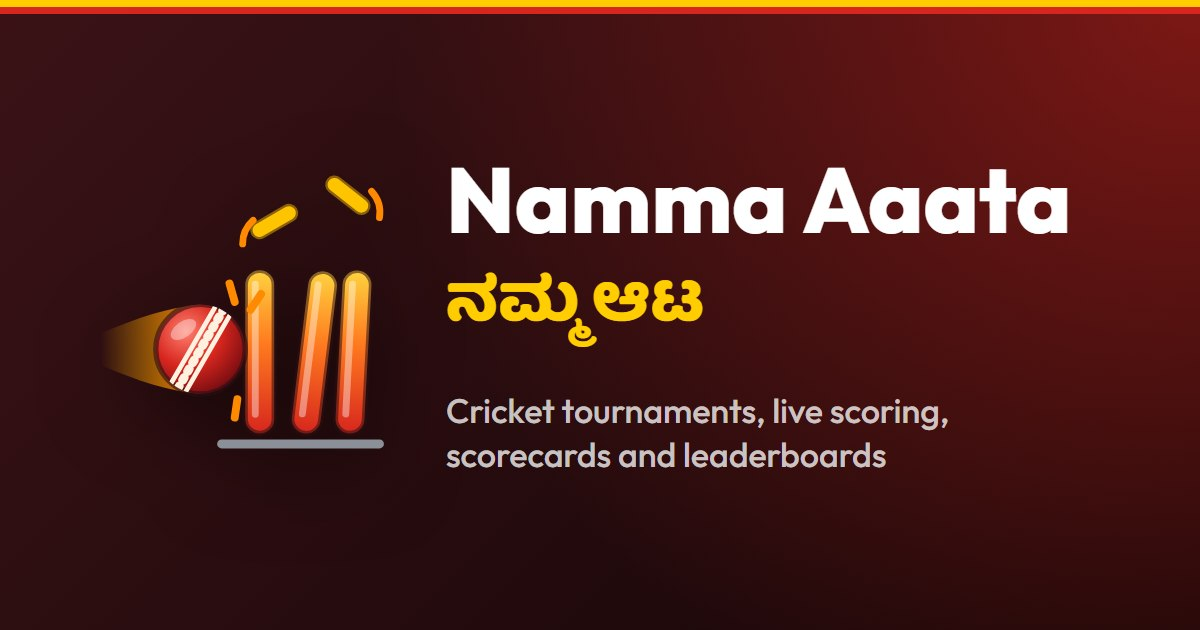
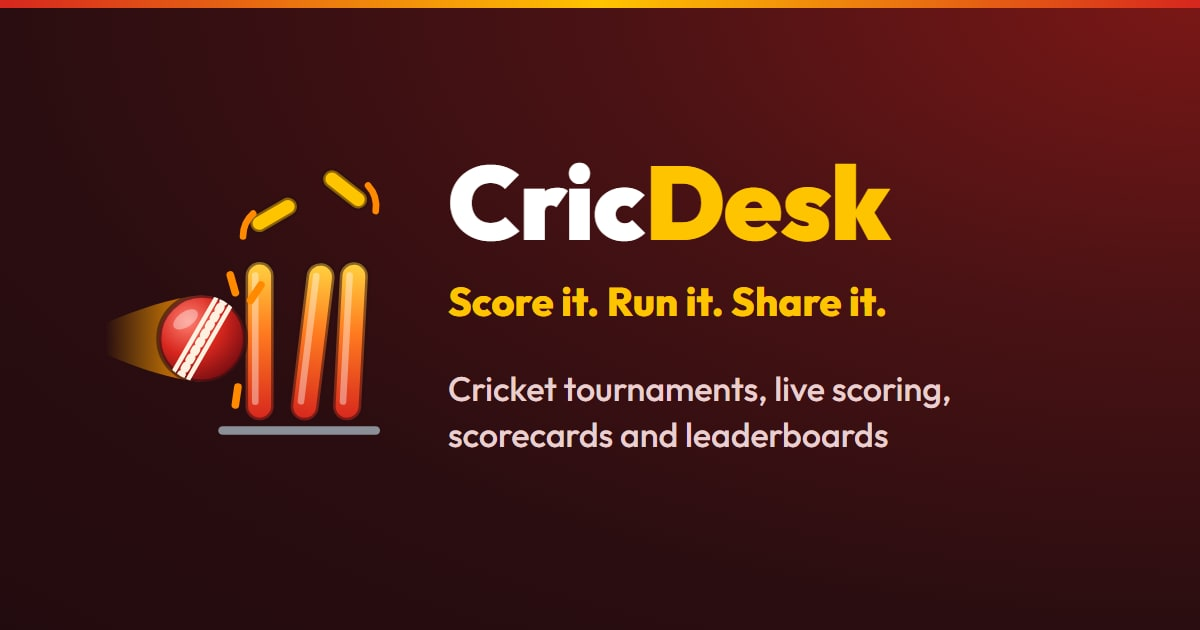
Replace the old-name link preview image with a CricDesk one

diff --git a/index.html b/index.html
@@ -13,7 +13,7 @@
     <meta property="og:site_name" content="CricDesk" />
     <meta property="og:title" content="CricDesk" />
     <meta property="og:description" content="Run your cricket tournaments: squads, balanced teams, ball-by-ball live scoring, scorecards and leaderboards." />
-    <meta property="og:image" content="/og-image.jpg" />
+    <meta property="og:image" content="/og-image.jpg?v=2" />
     <meta property="og:image:width" content="1200" />
     <meta property="og:image:height" content="630" />
     <meta name="twitter:card" content="summary_large_image" />
